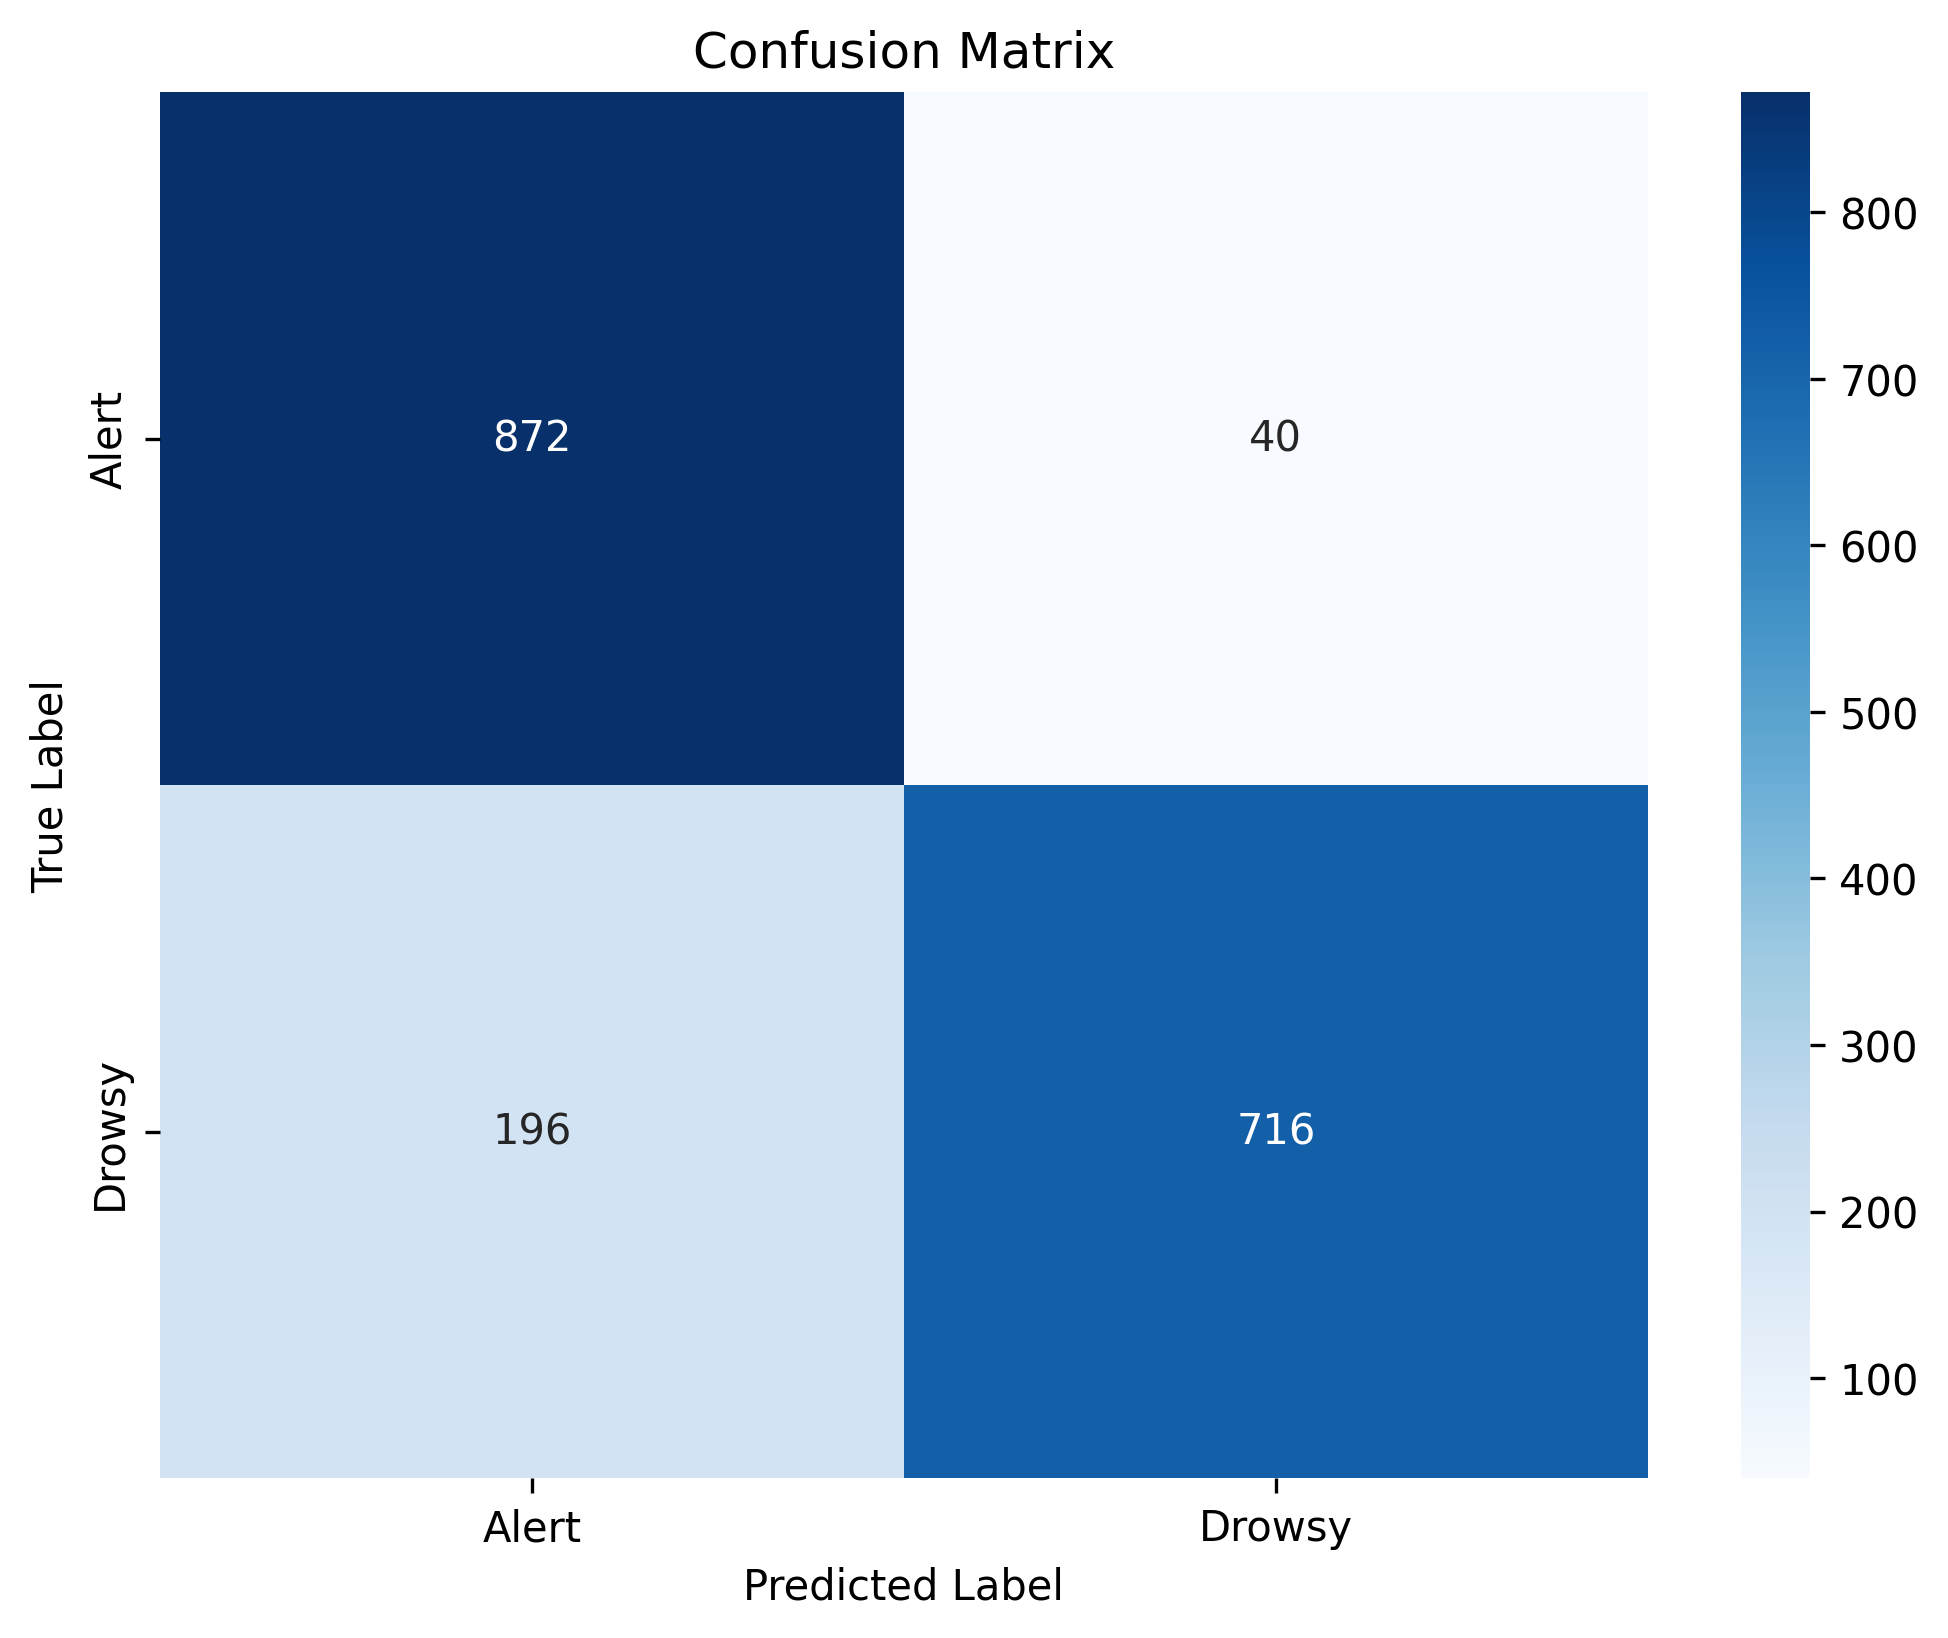
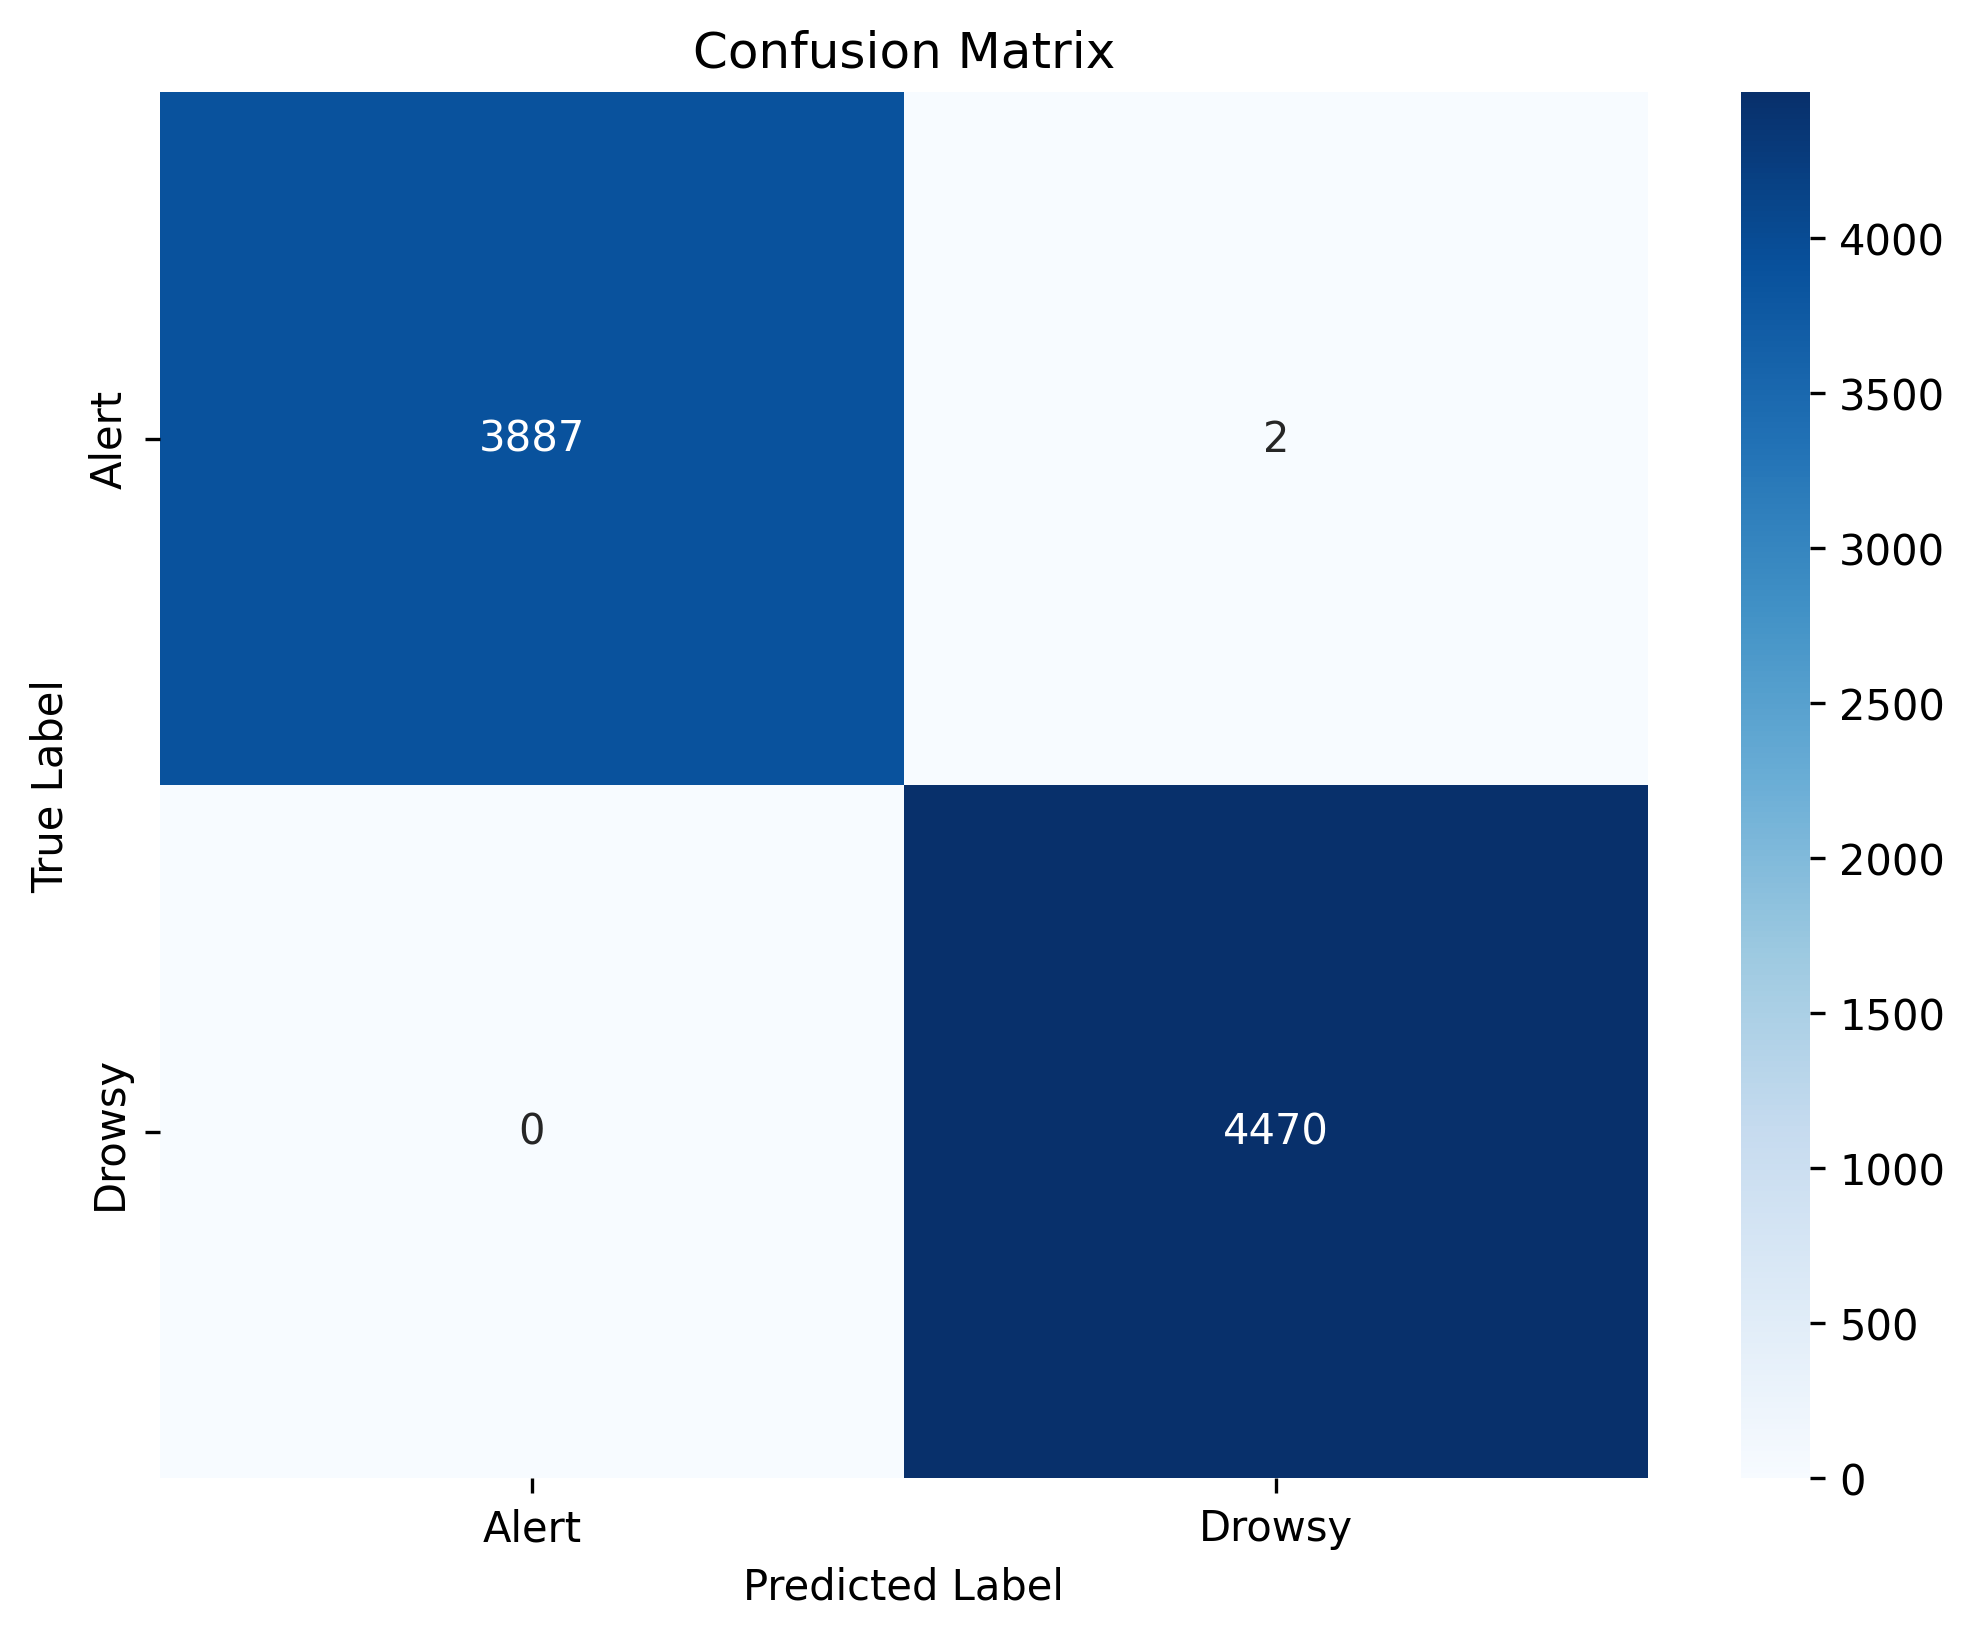
Improving Accuracy

diff --git a/train_model.py b/train_model.py
@@ -194,19 +194,6 @@ def build_cnn_model(input_shape, num_classes):
 # 3. TRAIN MODEL
 # ===========================
 def train_model(model, X_train, y_train, X_test, y_test, epochs, batch_size):
-    """
-    Train the CNN model with callbacks for early stopping and learning rate reduction.
-    
-    Args:
-        model: Keras model to train
-        X_train, y_train: Training data and labels
-        X_test, y_test: Test data and labels
-        epochs: Number of training epochs
-        batch_size: Batch size for training
-    
-    Returns:
-        history: Training history object
-    """
     # Compile model
     model.compile(
         optimizer=keras.optimizers.Adam(learning_rate=LEARNING_RATE),
@@ -319,9 +306,6 @@ def plot_training_history(history):
     print("Training history saved as 'training_history.png'")
 
 
-# ===========================
-# MAIN EXECUTION
-# ===========================
 if __name__ == "__main__":
     print("="*60)
     print("DRIVER DROWSINESS DETECTION - MODEL TRAINING")
@@ -358,9 +342,9 @@ if __name__ == "__main__":
     # Print device being used for training
     print("\n" + "="*60)
     if gpu_available:
-        print("🎯 TRAINING ON: GPU")
+        print("TRAINING ON: GPU")
     else:
-        print("🎯 TRAINING ON: CPU")
+        print("TRAINING ON: CPU")
     print("="*60 + "\n")
     
     # Train model